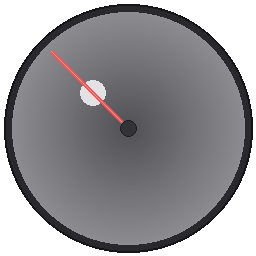
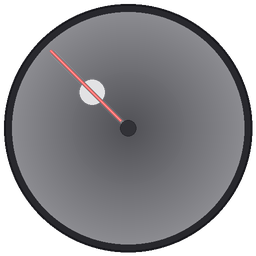
Add anti-aliasing: 2x supersampling + LANCZOS for smooth knob edges

diff --git a/create_sample_knob.py b/create_sample_knob.py
@@ -1,10 +1,14 @@
 """
 Generate sample knob images for testing the Knob Animation tab.
+Uses supersampling (render at 2x then downscale) for smooth anti-aliased edges.
 """
 
 from PIL import Image, ImageDraw, ImageFilter
 import math
 from pathlib import Path
+
+# Supersampling factor for anti-aliasing (2x = render at double size, then downscale)
+SUPERSAMPLE = 2
 
 
 def create_metallic_knob(size: int = 128, pointer_angle: float = -135) -> Image.Image:
@@ -18,13 +22,15 @@ def create_metallic_knob(size: int = 128, pointer_angle: float = -135) -> Image.
     Returns:
         RGBA Image of the knob
     """
-    img = Image.new("RGBA", (size, size), (0, 0, 0, 0))
+    # Render at higher resolution for anti-aliasing
+    render_size = size * SUPERSAMPLE
+    img = Image.new("RGBA", (render_size, render_size), (0, 0, 0, 0))
     draw = ImageDraw.Draw(img)
     
-    center = size // 2
-    outer_radius = size // 2 - 4
-    inner_radius = outer_radius - 8
-    pointer_radius = inner_radius - 6
+    center = render_size // 2
+    outer_radius = render_size // 2 - 4 * SUPERSAMPLE
+    inner_radius = outer_radius - 8 * SUPERSAMPLE
+    pointer_radius = inner_radius - 6 * SUPERSAMPLE
     
     # Outer ring (dark edge)
     draw.ellipse(
@@ -32,11 +38,11 @@ def create_metallic_knob(size: int = 128, pointer_angle: float = -135) -> Image.
          center + outer_radius, center + outer_radius],
         fill=(40, 40, 45, 255),
         outline=(20, 20, 25, 255),
-        width=2
+        width=2 * SUPERSAMPLE
     )
     
     # Main knob body with gradient-like effect
-    for i in range(inner_radius, 0, -2):
+    for i in range(inner_radius, 0, -2 * SUPERSAMPLE):
         # Create a gradient from light gray to darker
         t = i / inner_radius
         gray = int(80 + 60 * t)
@@ -49,27 +55,28 @@ def create_metallic_knob(size: int = 128, pointer_angle: float = -135) -> Image.
     # Highlight on top-left
     highlight_offset = inner_radius // 3
     draw.ellipse(
-        [center - highlight_offset - 10, center - highlight_offset - 10,
-         center - highlight_offset + 15, center - highlight_offset + 15],
+        [center - highlight_offset - 10 * SUPERSAMPLE, center - highlight_offset - 10 * SUPERSAMPLE,
+         center - highlight_offset + 15 * SUPERSAMPLE, center - highlight_offset + 15 * SUPERSAMPLE],
         fill=(180, 180, 185, 100)
     )
     
     # Pointer/indicator line
     rad = math.radians(pointer_angle)
-    px1 = center + int(10 * math.cos(rad))
-    py1 = center + int(10 * math.sin(rad))
+    px1 = center + int(10 * SUPERSAMPLE * math.cos(rad))
+    py1 = center + int(10 * SUPERSAMPLE * math.sin(rad))
     px2 = center + int(pointer_radius * math.cos(rad))
     py2 = center + int(pointer_radius * math.sin(rad))
     
     # Pointer shadow
-    draw.line([(px1 + 2, py1 + 2), (px2 + 2, py2 + 2)], fill=(30, 30, 35, 150), width=4)
+    draw.line([(px1 + 2 * SUPERSAMPLE, py1 + 2 * SUPERSAMPLE), (px2 + 2 * SUPERSAMPLE, py2 + 2 * SUPERSAMPLE)], 
+              fill=(30, 30, 35, 150), width=4 * SUPERSAMPLE)
     # Pointer main
-    draw.line([(px1, py1), (px2, py2)], fill=(255, 80, 80, 255), width=3)
+    draw.line([(px1, py1), (px2, py2)], fill=(255, 80, 80, 255), width=3 * SUPERSAMPLE)
     # Pointer highlight
-    draw.line([(px1, py1), (px2, py2)], fill=(255, 150, 150, 255), width=1)
+    draw.line([(px1, py1), (px2, py2)], fill=(255, 150, 150, 255), width=1 * SUPERSAMPLE)
     
     # Center cap
-    cap_radius = 8
+    cap_radius = 8 * SUPERSAMPLE
     draw.ellipse(
         [center - cap_radius, center - cap_radius,
          center + cap_radius, center + cap_radius],
@@ -77,6 +84,8 @@ def create_metallic_knob(size: int = 128, pointer_angle: float = -135) -> Image.
         outline=(30, 30, 35, 255)
     )
     
+    # Downscale with high-quality resampling for anti-aliased edges
+    img = img.resize((size, size), Image.Resampling.LANCZOS)
     return img
 
 
@@ -93,23 +102,24 @@ def create_neon_knob(size: int = 128, pointer_angle: float = -135,
     Returns:
         RGBA Image of the knob
     """
-    # Create larger image for glow effect
-    glow_padding = 20
-    full_size = size + glow_padding * 2
+    # Render at higher resolution for anti-aliasing
+    render_size = size * SUPERSAMPLE
+    glow_padding = 20 * SUPERSAMPLE
+    full_size = render_size + glow_padding * 2
     img = Image.new("RGBA", (full_size, full_size), (0, 0, 0, 0))
     draw = ImageDraw.Draw(img)
     
     center = full_size // 2
-    outer_radius = size // 2 - 4
-    inner_radius = outer_radius - 6
-    pointer_radius = inner_radius - 8
+    outer_radius = render_size // 2 - 4 * SUPERSAMPLE
+    inner_radius = outer_radius - 6 * SUPERSAMPLE
+    pointer_radius = inner_radius - 8 * SUPERSAMPLE
     
     r, g, b = color
     
     # Dark background circle
     draw.ellipse(
-        [center - outer_radius - 2, center - outer_radius - 2,
-         center + outer_radius + 2, center + outer_radius + 2],
+        [center - outer_radius - 2 * SUPERSAMPLE, center - outer_radius - 2 * SUPERSAMPLE,
+         center + outer_radius + 2 * SUPERSAMPLE, center + outer_radius + 2 * SUPERSAMPLE],
         fill=(15, 15, 20, 255)
     )
     
@@ -118,7 +128,7 @@ def create_neon_knob(size: int = 128, pointer_angle: float = -135,
         [center - outer_radius, center - outer_radius,
          center + outer_radius, center + outer_radius],
         outline=(r, g, b, 255),
-        width=3
+        width=3 * SUPERSAMPLE
     )
     
     # Inner circle (dark)
@@ -130,22 +140,22 @@ def create_neon_knob(size: int = 128, pointer_angle: float = -135,
     
     # Pointer/indicator
     rad = math.radians(pointer_angle)
-    px1 = center + int(12 * math.cos(rad))
-    py1 = center + int(12 * math.sin(rad))
+    px1 = center + int(12 * SUPERSAMPLE * math.cos(rad))
+    py1 = center + int(12 * SUPERSAMPLE * math.sin(rad))
     px2 = center + int(pointer_radius * math.cos(rad))
     py2 = center + int(pointer_radius * math.sin(rad))
     
     # Pointer glow (draw multiple times with decreasing alpha)
-    for glow in range(8, 0, -2):
-        alpha = 50 - glow * 5
-        draw.line([(px1, py1), (px2, py2)], fill=(r, g, b, alpha), width=glow + 4)
+    for glow in range(8 * SUPERSAMPLE, 0, -2 * SUPERSAMPLE):
+        alpha = max(10, 50 - glow * 3)
+        draw.line([(px1, py1), (px2, py2)], fill=(r, g, b, alpha), width=glow + 4 * SUPERSAMPLE)
     
     # Pointer main
-    draw.line([(px1, py1), (px2, py2)], fill=(r, g, b, 255), width=3)
-    draw.line([(px1, py1), (px2, py2)], fill=(255, 255, 255, 200), width=1)
+    draw.line([(px1, py1), (px2, py2)], fill=(r, g, b, 255), width=3 * SUPERSAMPLE)
+    draw.line([(px1, py1), (px2, py2)], fill=(255, 255, 255, 200), width=1 * SUPERSAMPLE)
     
     # Center dot
-    dot_radius = 5
+    dot_radius = 5 * SUPERSAMPLE
     draw.ellipse(
         [center - dot_radius, center - dot_radius,
          center + dot_radius, center + dot_radius],
@@ -154,17 +164,19 @@ def create_neon_knob(size: int = 128, pointer_angle: float = -135,
     
     # Apply gaussian blur for glow effect
     glow_layer = img.copy()
-    glow_layer = glow_layer.filter(ImageFilter.GaussianBlur(radius=4))
+    glow_layer = glow_layer.filter(ImageFilter.GaussianBlur(radius=4 * SUPERSAMPLE))
     
     # Composite glow behind main image
     result = Image.new("RGBA", (full_size, full_size), (0, 0, 0, 0))
     result = Image.alpha_composite(result, glow_layer)
     result = Image.alpha_composite(result, img)
     
-    # Crop to original size
-    crop_box = (glow_padding, glow_padding, glow_padding + size, glow_padding + size)
+    # Crop to render size (removing glow padding)
+    crop_box = (glow_padding, glow_padding, glow_padding + render_size, glow_padding + render_size)
     result = result.crop(crop_box)
     
+    # Downscale with high-quality resampling for anti-aliased edges
+    result = result.resize((size, size), Image.Resampling.LANCZOS)
     return result
 
 
@@ -179,15 +191,17 @@ def create_cyberpunk_knob(size: int = 128, pointer_angle: float = -135) -> Image
     Returns:
         RGBA Image of the knob
     """
-    glow_padding = 20
-    full_size = size + glow_padding * 2
+    # Render at higher resolution for anti-aliasing
+    render_size = size * SUPERSAMPLE
+    glow_padding = 20 * SUPERSAMPLE
+    full_size = render_size + glow_padding * 2
     img = Image.new("RGBA", (full_size, full_size), (0, 0, 0, 0))
     draw = ImageDraw.Draw(img)
     
     center = full_size // 2
-    outer_radius = size // 2 - 6
-    inner_radius = outer_radius - 15
-    pointer_radius = inner_radius - 5
+    outer_radius = render_size // 2 - 6 * SUPERSAMPLE
+    inner_radius = outer_radius - 15 * SUPERSAMPLE
+    pointer_radius = inner_radius - 5 * SUPERSAMPLE
     
     # Cyberpunk colors
     cyan = (0, 255, 255)
@@ -196,8 +210,8 @@ def create_cyberpunk_knob(size: int = 128, pointer_angle: float = -135) -> Image
     
     # Dark background circle
     draw.ellipse(
-        [center - outer_radius - 2, center - outer_radius - 2,
-         center + outer_radius + 2, center + outer_radius + 2],
+        [center - outer_radius - 2 * SUPERSAMPLE, center - outer_radius - 2 * SUPERSAMPLE,
+         center + outer_radius + 2 * SUPERSAMPLE, center + outer_radius + 2 * SUPERSAMPLE],
         fill=dark_bg
     )
     
@@ -207,7 +221,7 @@ def create_cyberpunk_knob(size: int = 128, pointer_angle: float = -135) -> Image
          center + outer_radius, center + outer_radius],
         start=0, end=360,
         fill=(*magenta, 180),
-        width=2
+        width=2 * SUPERSAMPLE
     )
     
     # Inner ring - cyan
@@ -216,37 +230,37 @@ def create_cyberpunk_knob(size: int = 128, pointer_angle: float = -135) -> Image
          center + inner_radius, center + inner_radius],
         start=0, end=360,
         fill=(*cyan, 150),
-        width=1
+        width=1 * SUPERSAMPLE
     )
     
     # Tick marks around the edge
     for angle in range(-135, 136, 30):
         rad = math.radians(angle)
-        tick_start = outer_radius - 4
-        tick_end = outer_radius + 2
+        tick_start = outer_radius - 4 * SUPERSAMPLE
+        tick_end = outer_radius + 2 * SUPERSAMPLE
         x1 = center + int(tick_start * math.cos(rad))
         y1 = center + int(tick_start * math.sin(rad))
         x2 = center + int(tick_end * math.cos(rad))
         y2 = center + int(tick_end * math.sin(rad))
-        draw.line([(x1, y1), (x2, y2)], fill=(*magenta, 200), width=1)
+        draw.line([(x1, y1), (x2, y2)], fill=(*magenta, 200), width=1 * SUPERSAMPLE)
     
     # Pointer line - cyan, thin
     rad = math.radians(pointer_angle)
-    px1 = center + int(8 * math.cos(rad))
-    py1 = center + int(8 * math.sin(rad))
+    px1 = center + int(8 * SUPERSAMPLE * math.cos(rad))
+    py1 = center + int(8 * SUPERSAMPLE * math.sin(rad))
     px2 = center + int(pointer_radius * math.cos(rad))
     py2 = center + int(pointer_radius * math.sin(rad))
     
     # Pointer glow
-    for glow in range(6, 0, -2):
-        alpha = 40 - glow * 5
-        draw.line([(px1, py1), (px2, py2)], fill=(*cyan, alpha), width=glow + 2)
+    for glow in range(6 * SUPERSAMPLE, 0, -2 * SUPERSAMPLE):
+        alpha = max(10, 40 - glow * 3)
+        draw.line([(px1, py1), (px2, py2)], fill=(*cyan, alpha), width=glow + 2 * SUPERSAMPLE)
     
     # Pointer main line
-    draw.line([(px1, py1), (px2, py2)], fill=(*cyan, 255), width=2)
+    draw.line([(px1, py1), (px2, py2)], fill=(*cyan, 255), width=2 * SUPERSAMPLE)
     
     # Small center dot
-    dot_radius = 3
+    dot_radius = 3 * SUPERSAMPLE
     draw.ellipse(
         [center - dot_radius, center - dot_radius,
          center + dot_radius, center + dot_radius],
@@ -255,16 +269,18 @@ def create_cyberpunk_knob(size: int = 128, pointer_angle: float = -135) -> Image
     
     # Apply glow
     glow_layer = img.copy()
-    glow_layer = glow_layer.filter(ImageFilter.GaussianBlur(radius=3))
+    glow_layer = glow_layer.filter(ImageFilter.GaussianBlur(radius=3 * SUPERSAMPLE))
     
     result = Image.new("RGBA", (full_size, full_size), (0, 0, 0, 0))
     result = Image.alpha_composite(result, glow_layer)
     result = Image.alpha_composite(result, img)
     
-    # Crop to original size
-    crop_box = (glow_padding, glow_padding, glow_padding + size, glow_padding + size)
+    # Crop to render size (removing glow padding)
+    crop_box = (glow_padding, glow_padding, glow_padding + render_size, glow_padding + render_size)
     result = result.crop(crop_box)
     
+    # Downscale with high-quality resampling for anti-aliased edges
+    result = result.resize((size, size), Image.Resampling.LANCZOS)
     return result
 
 
@@ -279,12 +295,14 @@ def create_simple_knob(size: int = 128, pointer_angle: float = -135) -> Image.Im
     Returns:
         RGBA Image of the knob
     """
-    img = Image.new("RGBA", (size, size), (0, 0, 0, 0))
+    # Render at higher resolution for anti-aliasing
+    render_size = size * SUPERSAMPLE
+    img = Image.new("RGBA", (render_size, render_size), (0, 0, 0, 0))
     draw = ImageDraw.Draw(img)
     
-    center = size // 2
-    outer_radius = size // 2 - 4
-    pointer_radius = outer_radius - 12
+    center = render_size // 2
+    outer_radius = render_size // 2 - 4 * SUPERSAMPLE
+    pointer_radius = outer_radius - 12 * SUPERSAMPLE
     
     # Main circle
     draw.ellipse(
@@ -292,7 +310,7 @@ def create_simple_knob(size: int = 128, pointer_angle: float = -135) -> Image.Im
          center + outer_radius, center + outer_radius],
         fill=(60, 60, 65, 255),
         outline=(80, 80, 85, 255),
-        width=2
+        width=2 * SUPERSAMPLE
     )
     
     # Pointer
@@ -302,16 +320,18 @@ def create_simple_knob(size: int = 128, pointer_angle: float = -135) -> Image.Im
     px2 = center + int(pointer_radius * math.cos(rad))
     py2 = center + int(pointer_radius * math.sin(rad))
     
-    draw.line([(px1, py1), (px2, py2)], fill=(255, 255, 255, 255), width=3)
+    draw.line([(px1, py1), (px2, py2)], fill=(255, 255, 255, 255), width=3 * SUPERSAMPLE)
     
     # Center dot
-    dot_radius = 6
+    dot_radius = 6 * SUPERSAMPLE
     draw.ellipse(
         [center - dot_radius, center - dot_radius,
          center + dot_radius, center + dot_radius],
         fill=(40, 40, 45, 255)
     )
     
+    # Downscale with high-quality resampling for anti-aliased edges
+    img = img.resize((size, size), Image.Resampling.LANCZOS)
     return img
 
 
